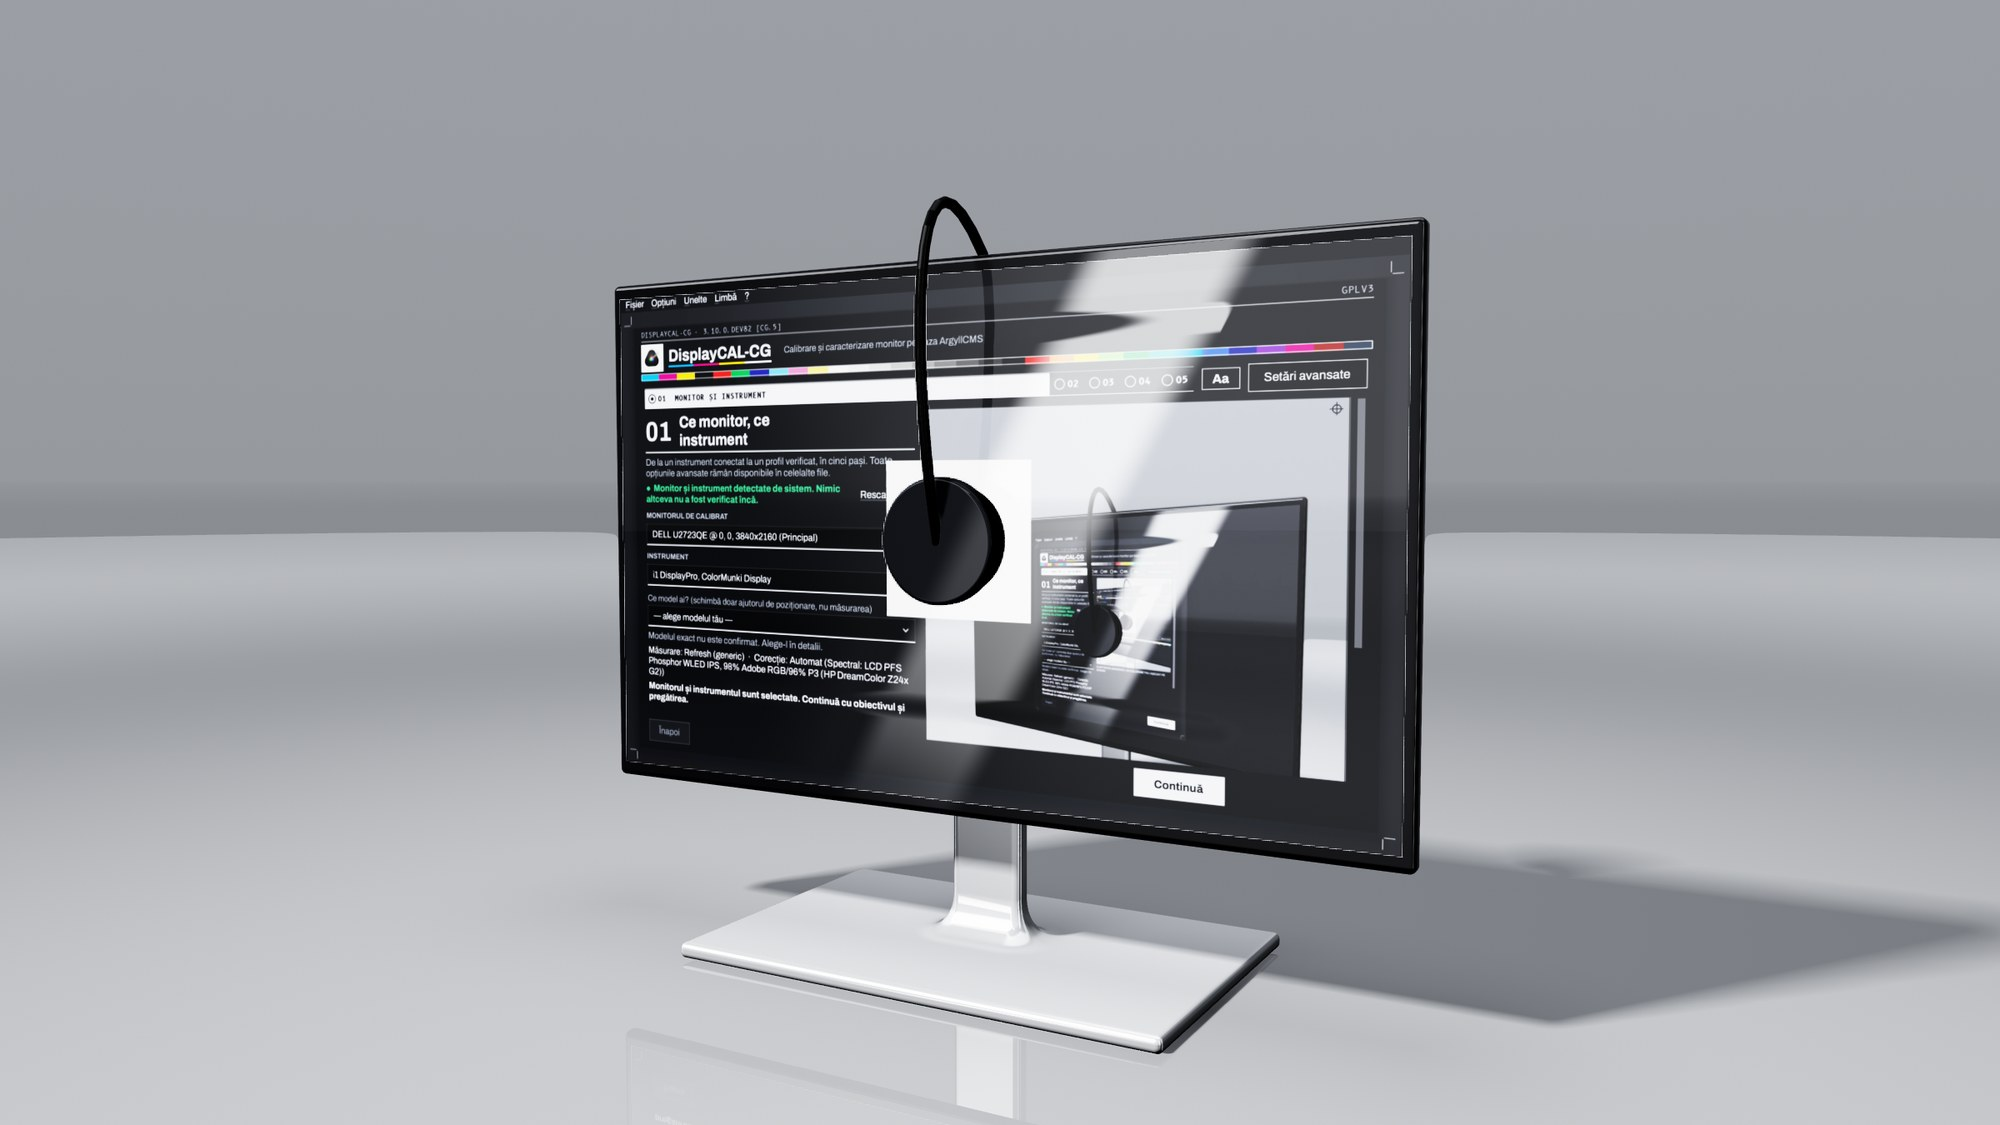
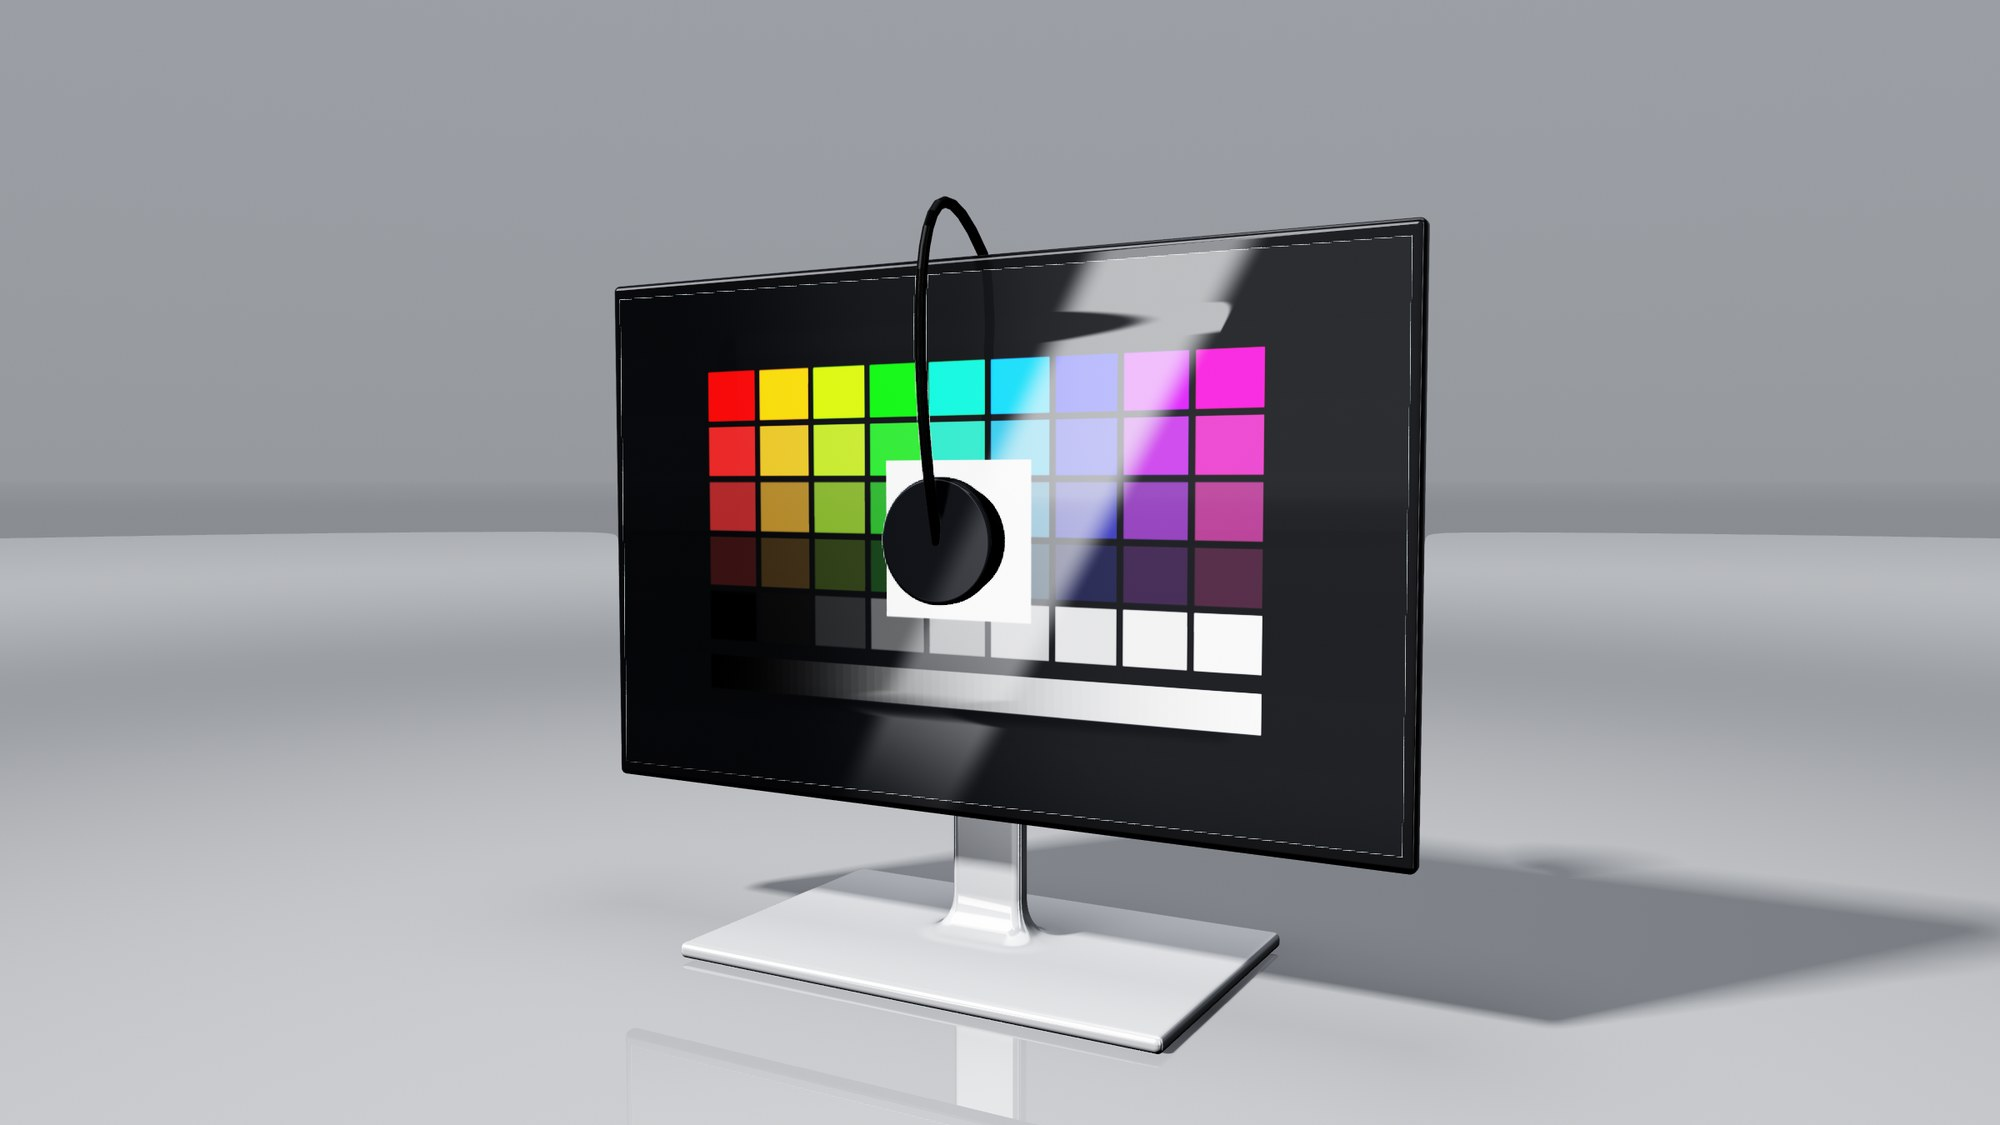
Monitor asset: clean calibration chart, tempered glare, feathered background (not propagated)

Changed region(s): [[0.31, 0.1867, 0.713, 0.7156]]

diff --git a/DisplayCAL/ui/design_a.py b/DisplayCAL/ui/design_a.py
@@ -657,9 +657,6 @@ class HeroPlate(QWidget):
         from qtpy.QtGui import QPainterPath
 
         r = self.rect().adjusted(0, 0, -1, -1)
-        clip = QPainterPath()
-        clip.addRoundedRect(QRectF(self.rect()), 8, 8)
-        p.setClipPath(clip)
         if not self._pix.isNull():
             # cover: crop the picture to the plate's shape around the monitor
             pw, ph = self._pix.width(), self._pix.height()
@@ -668,4 +665,20 @@ class HeroPlate(QWidget):
             sh = sw / want
             sx = max(0.0, min(pw - sw, pw * self._focus - sw / 2))
             p.drawPixmap(QRectF(self.rect()), self._pix, QRectF(sx, (ph - sh) / 2, sw, sh))
+            # the booth floor melts into the page: feather every edge into the sheet colour
+            from qtpy.QtGui import QLinearGradient
+
+            sheet = QColor(tokens().sheet)
+            clear = QColor(sheet)
+            clear.setAlpha(0)
+            w, h = self.width(), self.height()
+            f = int(min(w, h) * 0.16)
+            for (x0, y0, x1, y1, rx, ry, rw, rh) in (
+                (0, 0, f, 0, 0, 0, f, h), (w, 0, w - f, 0, w - f, 0, f, h),
+                (0, 0, 0, f, 0, 0, w, f), (0, h, 0, h - f, 0, h - f, w, f),
+            ):
+                g = QLinearGradient(x0, y0, x1, y1)
+                g.setColorAt(0, sheet)
+                g.setColorAt(1, clear)
+                p.fillRect(rx, ry, rw, rh, g)
         p.end()
